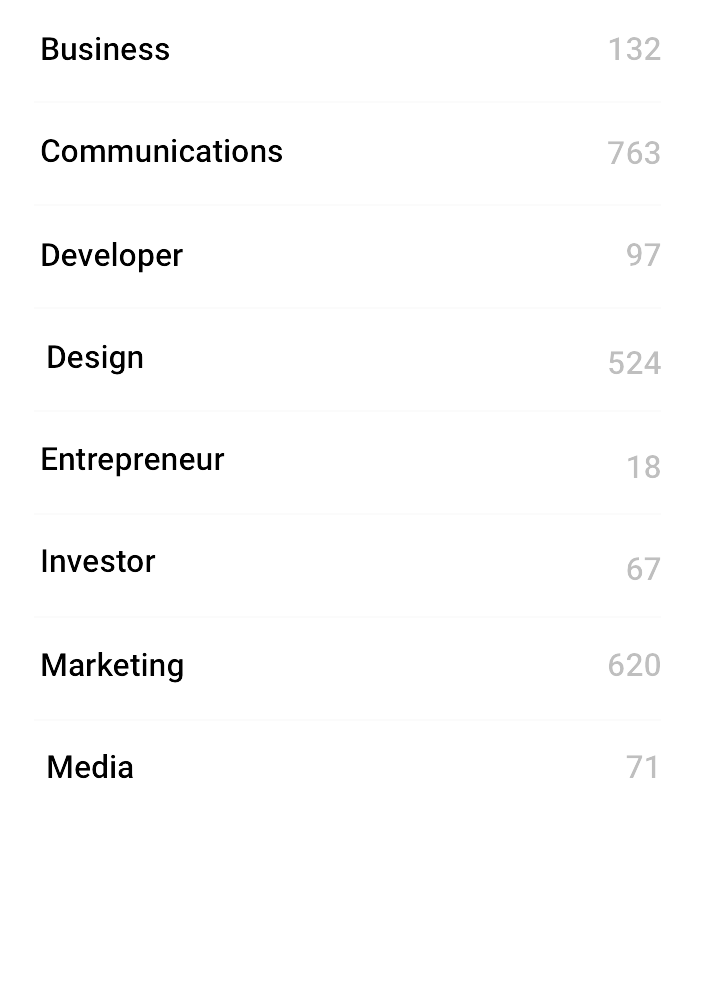
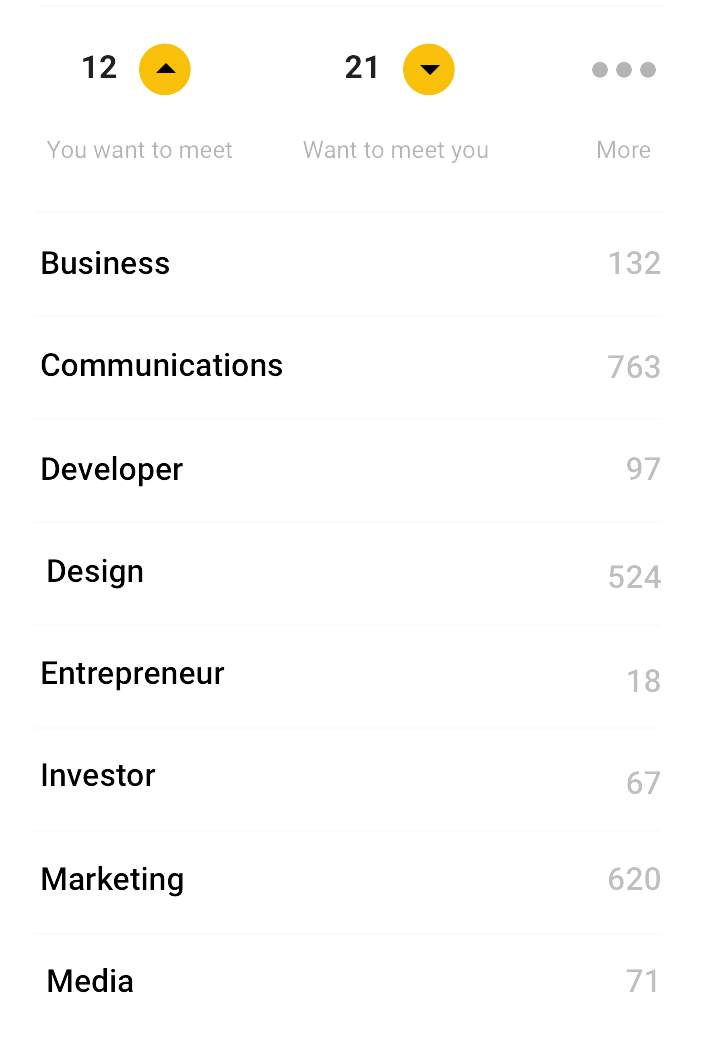
people views

diff --git a/src/Components/Home/Home.js b/src/Components/Home/Home.js
@@ -7,6 +7,8 @@ import scheduleMock from './schedule.png';
 import speakersMock from './speakers.png';
 import homeMore from './home.png';
 import peopleMock from './people.png';
+import peopleMock2 from './people2.png';
+import peopleMock3 from './people3.png';
 import {Dialog, RaisedButton} from 'material-ui';
 import config from './../../config'
 
@@ -14,6 +16,7 @@ class Home extends Component {
 
     state = {
         open: true,
+        people: 1
     };
 
     handleClose = () => {
@@ -51,6 +54,17 @@ class Home extends Component {
 
                 </Grid>
             </Dialog>;
+        }
+
+        let screen = <img style={{width: '100%', marginTop: 20}} onTouchTap={() => this.setState({people: 2})} src={peopleMock}
+                          alt="people"/>;
+
+        if (this.state.people === 2) {
+            screen =
+                <img style={{width: '100%', marginTop: 20}} onTouchTap={() => this.setState({people: 3})} src={peopleMock2} alt="people"/>
+        } else if (this.state.people === 3) {
+            screen =
+                <img style={{width: '100%', marginTop: 20}} onTouchTap={() => this.setState({people: 4})} src={peopleMock3} alt="people"/>
         }
 
         return (
@@ -94,8 +108,7 @@ class Home extends Component {
                     <Grid fluid>
                         <Row>
                             <Col xs={12}>
-                                <img style={{width: '100%', marginTop: 20}} src={peopleMock} alt="speakers"/>
-
+                                {screen}
                             </Col>
                         </Row>
                     </Grid>
